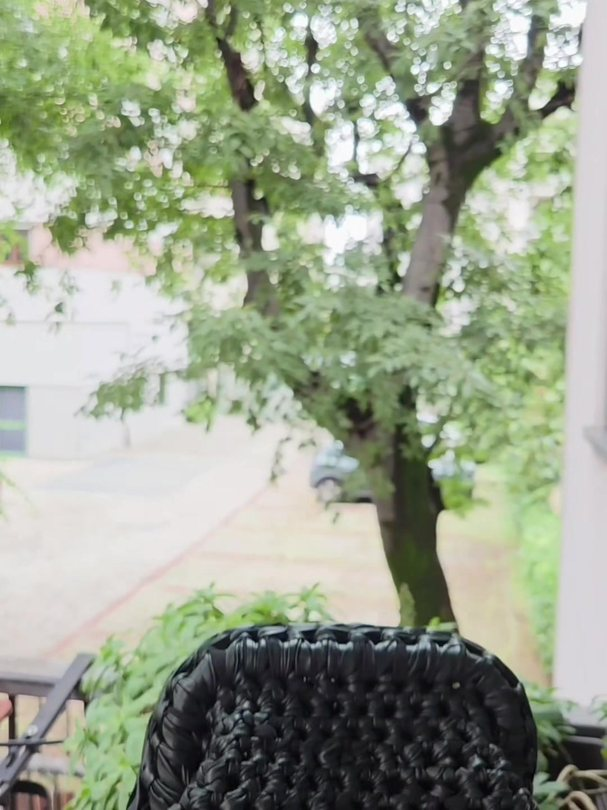
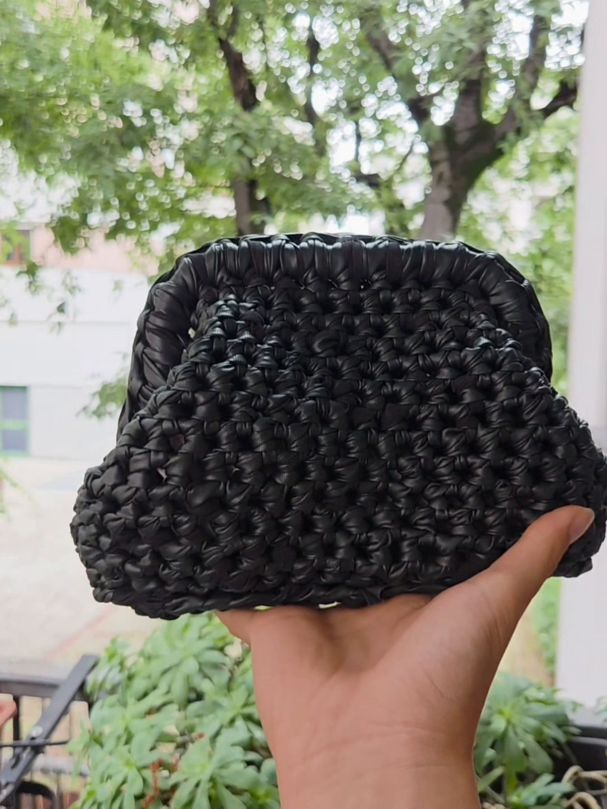
Foto catalogo: nuovi fotogrammi (colori e inquadratura) per 8 schede
Claude-Session: https://claude.ai/code/session_01SgpqnugmXTmqCaUV3kSLCG

diff --git a/index.html b/index.html
@@ -495,7 +495,7 @@ videos:[{label:'Video 1',src:'media/zigzag-1.mp4',poster:'media/zigzag-1.jpg',w:
    price:{from:35,to:35,chips:['35 €','Non foderata'],note:'Prezzo indicativo. Può variare in base a dimensioni e materiali.'},
    videos:[{label:'Video 1',src:'media/blu-lucida-1.mp4',poster:'media/blu-lucida-1.jpg',w:608,h:608},{label:'Video 2',src:'media/blu-lucida-2.mp4',poster:'media/blu-lucida-2.jpg',w:608,h:888}],
    specs:[['Colore','Blu lucido'],['Interno','Non foderata'],['Manico','Integrato nel corpo della borsa']]},
-  {id:'borsa-rame', title:'Borsa color rame', cat:BORSE, status:null, imgs:['rm'], ratio:'3/4',
+  {id:'borsa-rame', title:'Borsa color rame', cat:BORSE, status:null, imgs:['rm'], ratio:'1/1',
    alt:'Borsa all\'uncinetto color rame con manico, tenuta in mano in giardino',
    price:{from:30,to:30,chips:['30 €'],note:'Prezzo indicativo. Può variare in base a dimensioni e materiali.'},
    videos:[{label:'Video 1',src:'media/rame-1.mp4',poster:'media/rame-1.jpg',w:608,h:608},{label:'Video 2',src:'media/rame-2.mp4',poster:'media/rame-2.jpg',w:608,h:842}],
